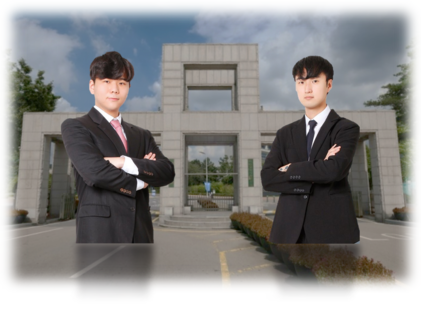
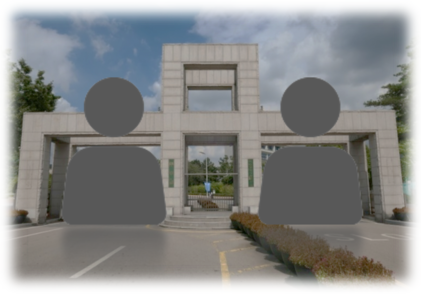
modify: image blur

diff --git a/views/humanity/pledge.html b/views/humanity/pledge.html
@@ -6,8 +6,8 @@
                 <div class='section-box-03'>
                     <div class='left-box'>
                         <div class='candidate-box'>
-                            <img class='versus' src='image/humanity1-1.png' alt='candidateImage'/>
-                            <img class='versus' src='image/humanity1-2.png' alt='candidateImage'/>
+                            <img class='versus' src='image/profile.png' alt='candidateImage'/>
+                            <img class='versus' src='image/profile.png' alt='candidateImage'/>
                         </div>
                         <div class='font-jua'>
                             <p class='candidate-position'>기호 1번</p>
@@ -28,8 +28,8 @@
                     </div>
                     <div class='right-box'>
                         <div class='candidate-box'>
-                            <img class='versus' src='image/humanity2-1.png' alt='candidateImage'/>
-                            <img class='versus' src='image/humanity2-2.png' alt='candidateImage'/>
+                            <img class='versus' src='image/profile.png' alt='candidateImage'/>
+                            <img class='versus' src='image/profile.png' alt='candidateImage'/>
                         </div>
                         <div class='font-jua'>
                             <p class='candidate-position'>기호 2번</p>

diff --git a/views/association/pledge.html b/views/association/pledge.html
@@ -5,7 +5,7 @@
                 <div class='section-box-03'>
                     <div class='left-box'>
                         <div class='candidate-box'>
-                            <img class='candidate-small' src='image/association1.png' alt='candidateImage'/>
+                            <img class='candidate-small' src='image/profile.png' alt='candidateImage'/>
                         </div>
                         <div class='font-jua'>
                             <p class='candidate-position'>정학생회장 후보</p>
@@ -26,7 +26,7 @@
                     </div>
                     <div class='right-box'>
                         <div class='candidate-box'>
-                            <img class='candidate-small' src='image/association2.png' alt='candidateImage'/>
+                            <img class='candidate-small' src='image/profile.png' alt='candidateImage'/>
                         </div>
                         <div class='font-jua'>
                             <p class='candidate-position'>부학생회장 후보</p>

diff --git a/views/information/pledge.html b/views/information/pledge.html
@@ -6,7 +6,7 @@
                 <div class='section-box-03'>
                     <div class='left-box'>
                         <div class='candidate-box'>
-                            <img class='candidate-small' src='image/information1.png' alt='candidateImage'/>
+                            <img class='candidate-small' src='image/profile.png' alt='candidateImage'/>
                         </div>
                         <div class='font-jua'>
                             <p class='candidate-position'>정학생회장 후보</p>
@@ -27,7 +27,7 @@
                     </div>
                     <div class='right-box'>
                         <div class='candidate-box'>
-                            <img class='candidate-small' src='image/information2.png' alt='candidateImage'/>
+                            <img class='candidate-small' src='image/profile.png' alt='candidateImage'/>
                         </div>
                         <div class='font-jua'>
                             <p class='candidate-position'>부학생회장 후보</p>

diff --git a/views/engineering/pledge.html b/views/engineering/pledge.html
@@ -5,7 +5,7 @@
                 <div class='section-box-03'>
                     <div class='left-box'>
                         <div class='candidate-box'>
-                            <img class='candidate-small' src='image/engineer1.png' alt='candidateImage'/>
+                            <img class='candidate-small' src='image/profile.png' alt='candidateImage'/>
                         </div>
                         <div class='font-jua'>
                             <p class='candidate-position'>정학생회장 후보</p>
@@ -26,7 +26,7 @@
                     </div>
                     <div class='right-box'>
                         <div class='candidate-box'>
-                            <img class='candidate-small' src='image/engineer2.png' alt='candidateImage'/>
+                            <img class='candidate-small' src='image/profile.png' alt='candidateImage'/>
                         </div>
                         <div class='font-jua'>
                             <p class='candidate-position'>부학생회장 후보</p>

diff --git a/views/welfare/pledge.html b/views/welfare/pledge.html
@@ -6,7 +6,7 @@
                 <div class='section-box-03'>
                     <div class='left-box'>
                         <div class='candidate-box'>
-                            <img class='candidate-small' src='image/welfare1.png' alt='candidateImage'/>
+                            <img class='candidate-small' src='image/profile.png' alt='candidateImage'/>
                         </div>
                         <div class='font-jua'>
                             <p class='candidate-position'>정위원장 후보</p>
@@ -27,7 +27,7 @@
                     </div>
                     <div class='right-box'>
                         <div class='candidate-box'>
-                            <img class='candidate-small' src='image/welfare2.png' alt='candidateImage'/>
+                            <img class='candidate-small' src='image/profile.png' alt='candidateImage'/>
                         </div>
                         <div class='font-jua'>
                             <p class='candidate-position'>부위원장 후보</p>

diff --git a/views/energy/pledge.html b/views/energy/pledge.html
@@ -5,7 +5,7 @@
     <div class='section-box-03'>
         <div class='left-box'>
             <div class='candidate-box'>
-                <img class='candidate-small' src='image/energy1.png' alt='candidateImage'/>
+                <img class='candidate-small' src='image/profile.png' alt='candidateImage'/>
             </div>
             <div class='font-jua'>
                 <p class='candidate-position'>정학생회장 후보</p>
@@ -26,7 +26,7 @@
         </div>
         <div class='right-box'>
             <div class='candidate-box'>
-                <img class='candidate-small' src='image/energy2.png' alt='candidateImage'/>
+                <img class='candidate-small' src='image/profile.png' alt='candidateImage'/>
             </div>
             <div class='font-jua'>
                 <p class='candidate-position'>부학생회장 후보</p>

diff --git a/views/club/pledge.html b/views/club/pledge.html
@@ -5,7 +5,7 @@
     <div class='section-box-03'>
         <div class='left-box'>
             <div class='candidate-box'>
-                <img class='candidate-small' src='image/club1.png' alt='candidateImage'/>
+                <img class='candidate-small' src='image/profile.png' alt='candidateImage'/>
             </div>
             <div class='font-jua'>
                 <p class='candidate-position'>으뜸빛 후보</p>
@@ -26,7 +26,7 @@
         </div>
         <div class='right-box'>
             <div class='candidate-box'>
-                <img class='candidate-small' src='image/club2.png' alt='candidateImage'/>
+                <img class='candidate-small' src='image/profile.png' alt='candidateImage'/>
             </div>
             <div class='font-jua'>
                 <p class='candidate-position'>버금빛 후보</p>
